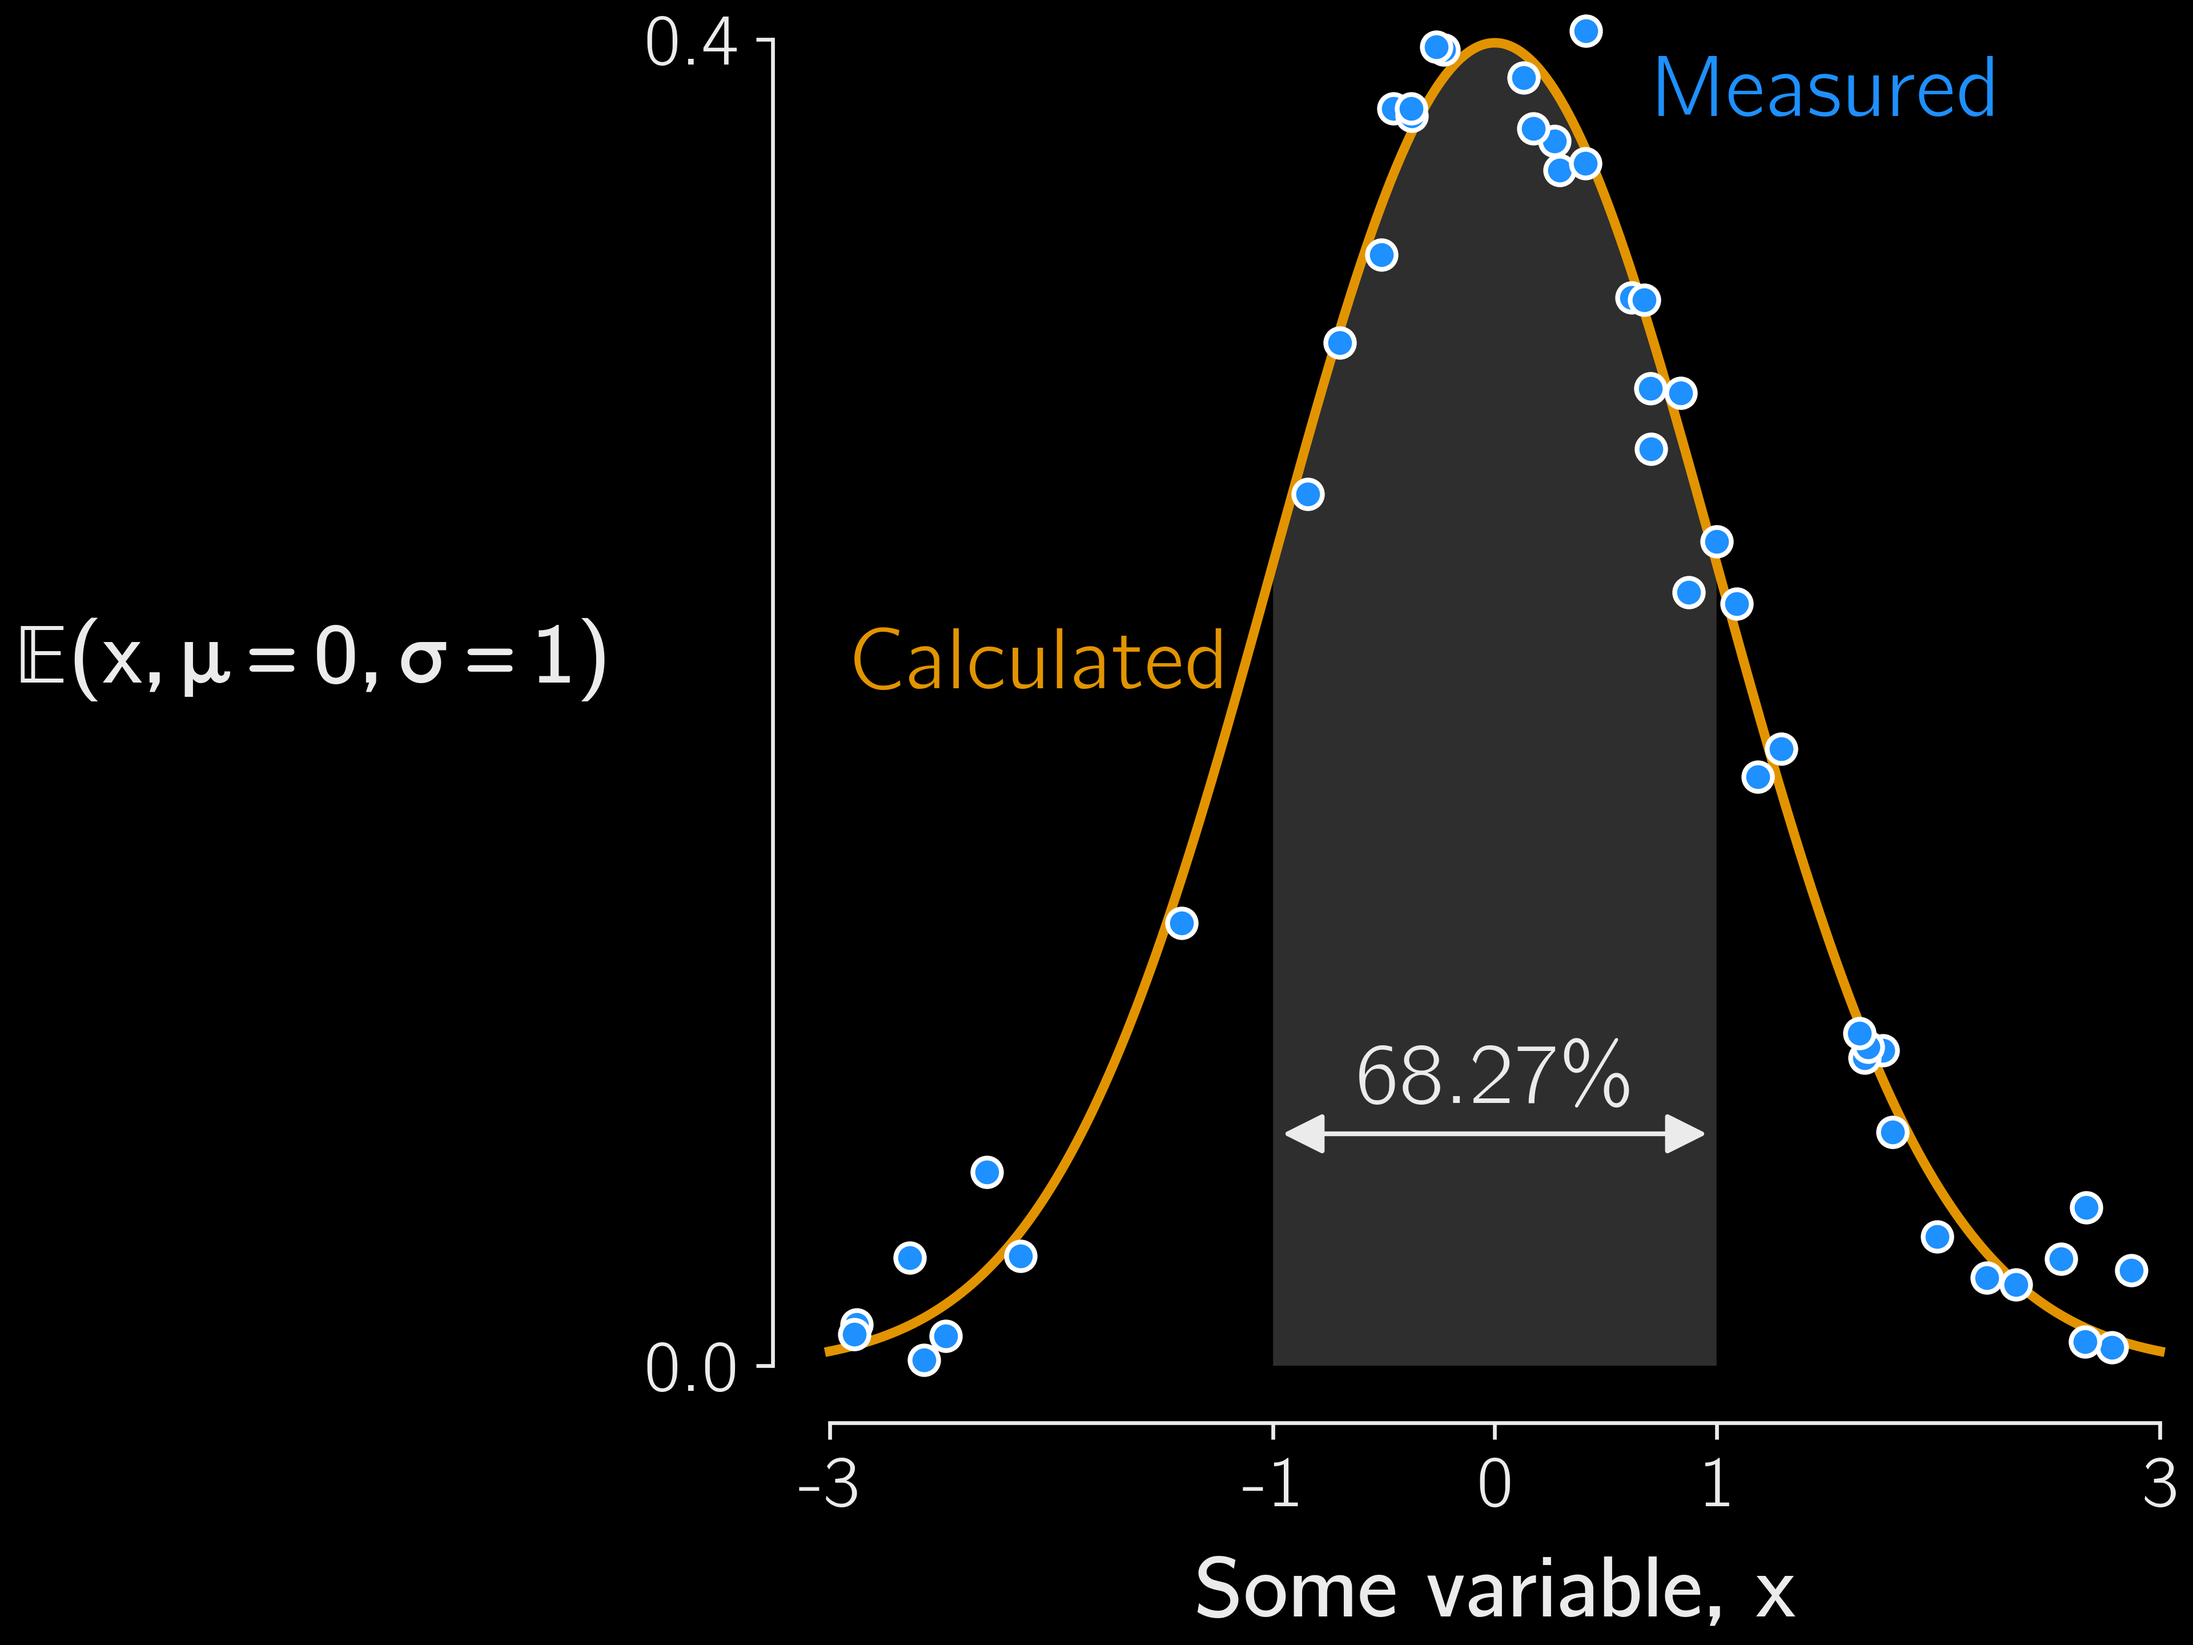
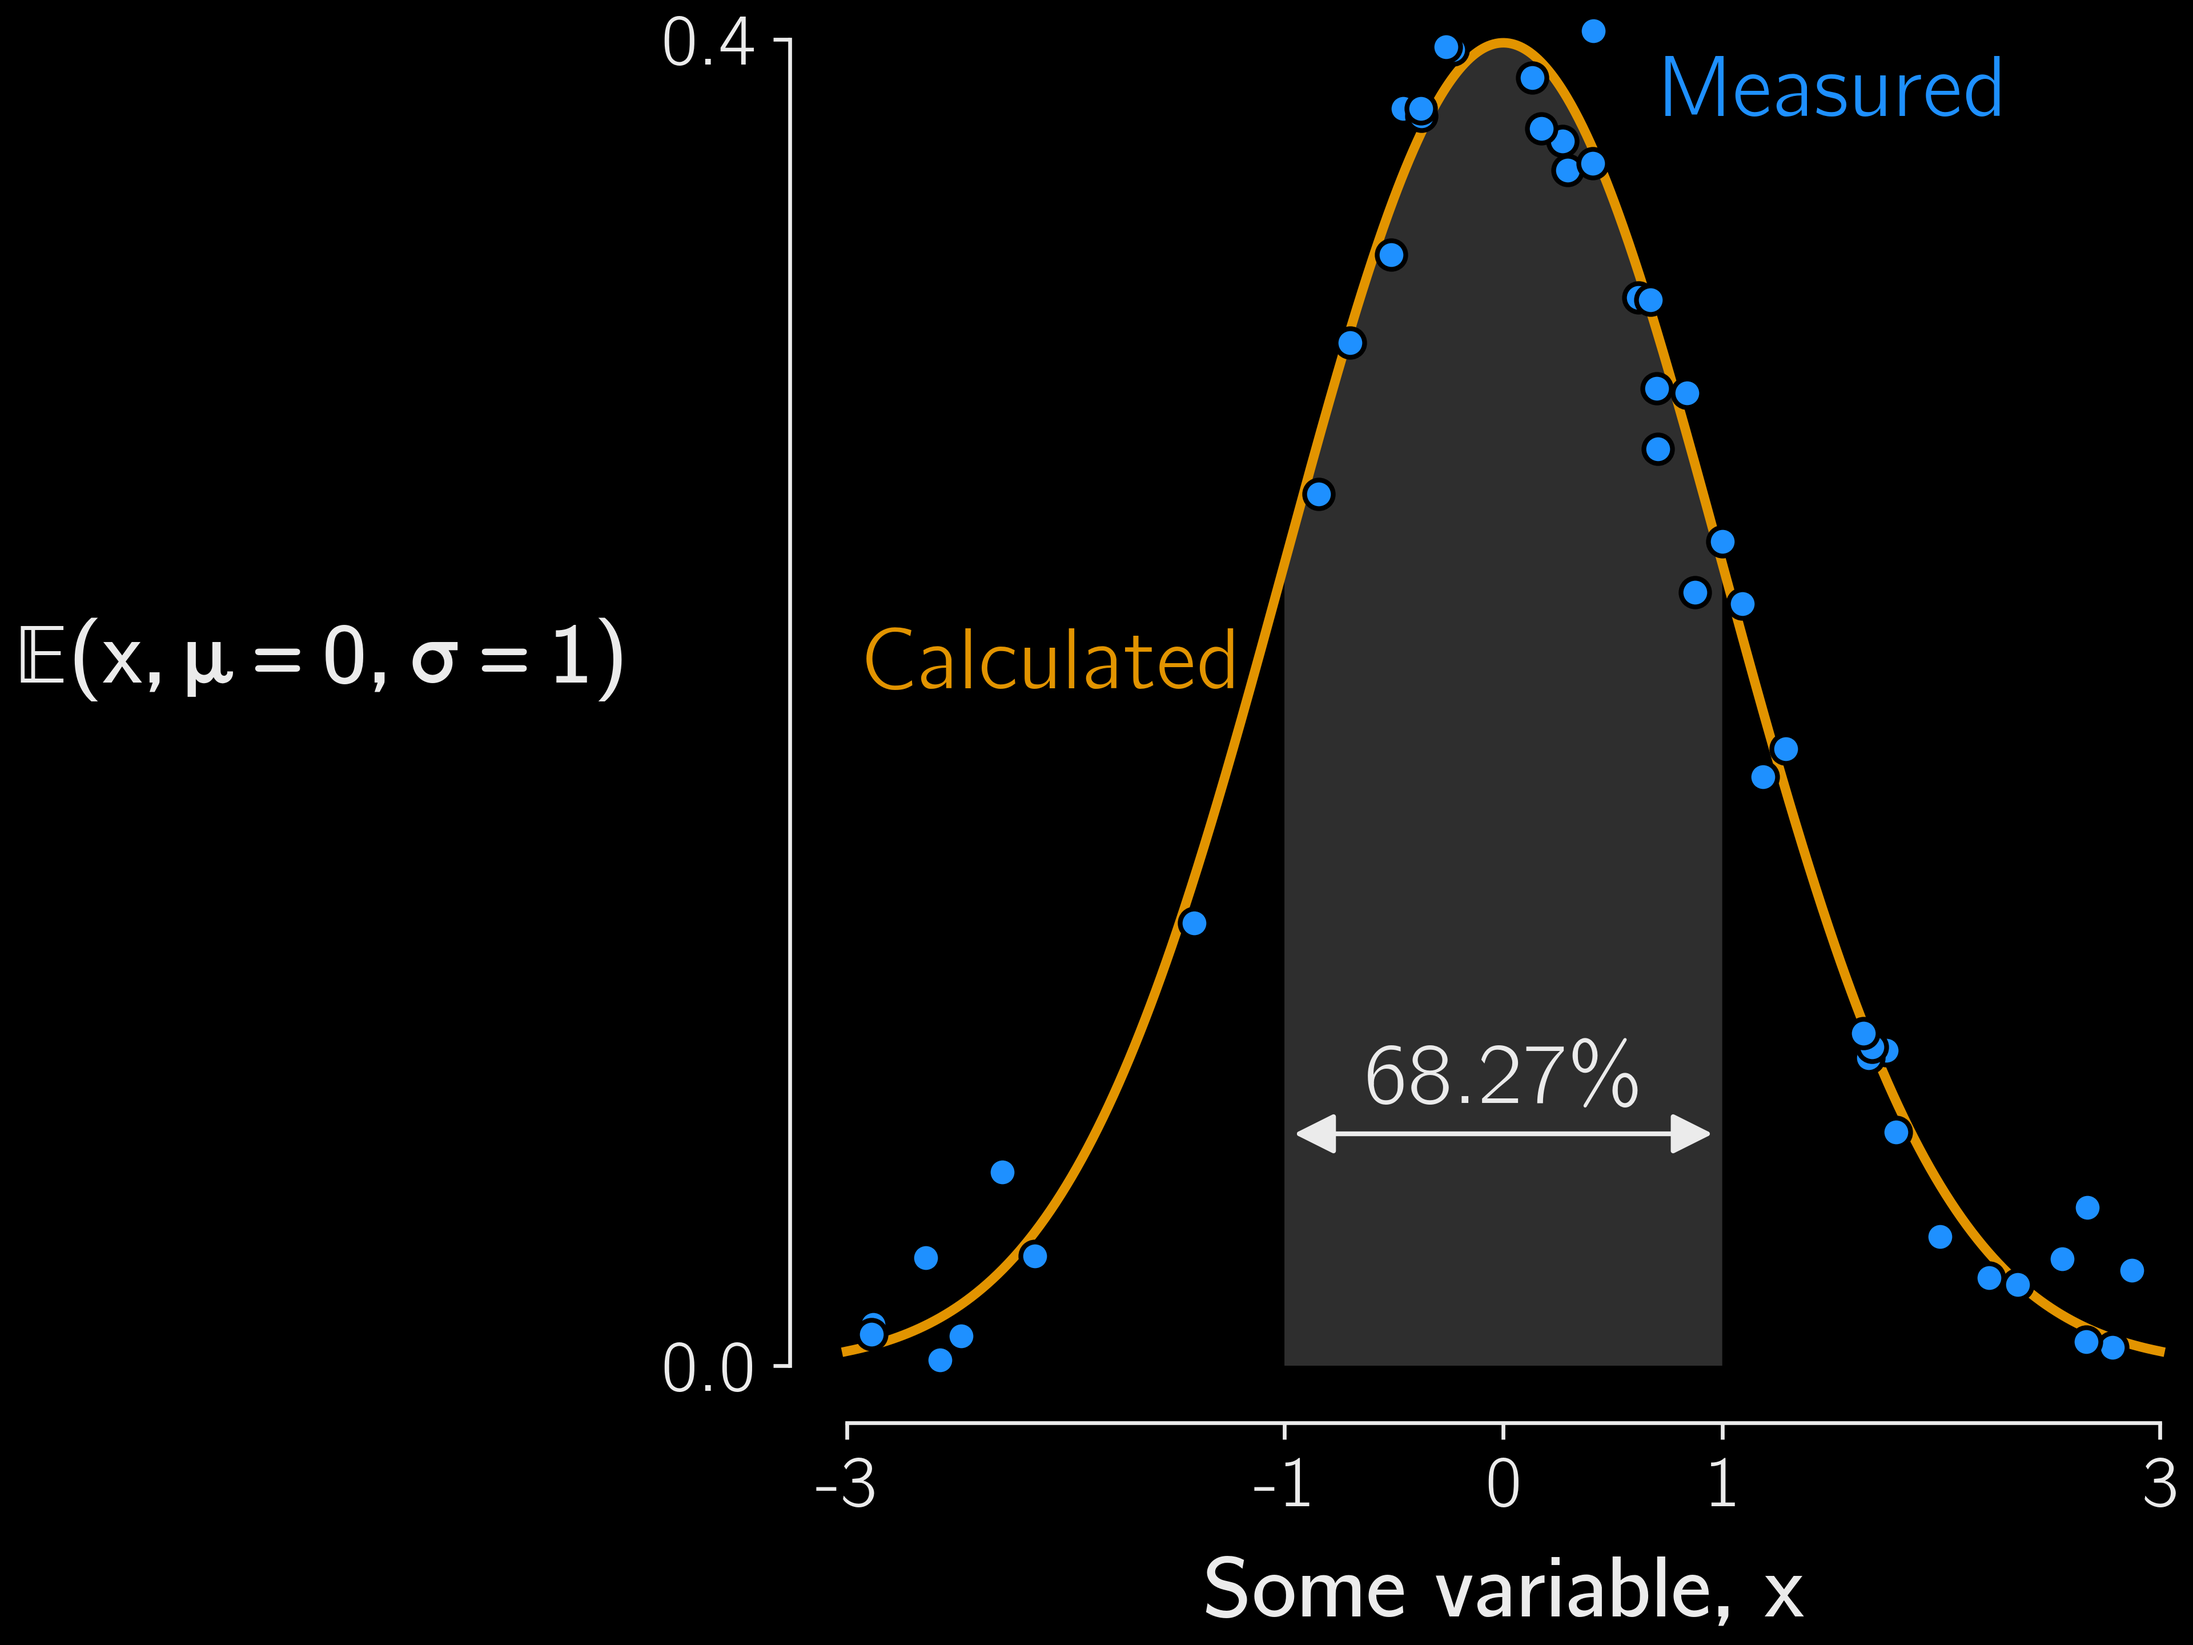
Tweak dark doumont style, update example png's

diff --git a/examples/plot_colored_line.py b/examples/plot_colored_line.py
@@ -29,9 +29,9 @@ c = np.cos(x)
 
 fig, ax = plt.subplots()
 niceplots.plot_colored_line(
-    x, y, c, cmap="coolwarm", fig=fig, ax=ax, addColorBar=True, cRange=None, cBarLabel="$dy/dx$"
+    x, y, c, cmap="coolwarm", fig=fig, ax=ax, addColorBar=True, cRange=None, cBarLabel="$dy/dx$", clip_on=False
 )
-niceplots.plot_colored_line(x, c, -y, cmap="coolwarm", fig=fig, ax=ax)
+niceplots.plot_colored_line(x, c, -y, cmap="coolwarm", fig=fig, ax=ax, clip_on=False)
 niceplots.adjust_spines(ax)
 ax.set_xlabel("$x$")
 ax.set_ylabel("$y$", rotation="horizontal", ha="right")
@@ -43,7 +43,9 @@ fig.savefig("coloredLine.pdf")
 
 # Use a custom norm to specify the colormap range
 divnorm = TwoSlopeNorm(vmin=-1.0, vcenter=0.8, vmax=1.0)
-fig, ax = niceplots.plot_colored_line(x, y, c, cmap="coolwarm", norm=divnorm, addColorBar=False, cBarLabel="$dy/dx$")
+fig, ax = niceplots.plot_colored_line(
+    x, y, c, cmap="coolwarm", norm=divnorm, addColorBar=False, cBarLabel="$dy/dx$", clip_on=False
+)
 niceplots.adjust_spines(ax)
 ax.set_xlabel("$x$")
 ax.set_ylabel("$y$", rotation="horizontal", ha="right")
@@ -52,4 +54,3 @@ ax.set_xticklabels([0, r"$\frac{\pi}{2}$", r"$\pi$", r"$\frac{3\pi}{2}$", r"$2\p
 ax.set_xlim(0, 2 * np.pi)
 fig.savefig("coloredLineCustomNorm.png", dpi=400)
 fig.savefig("coloredLineCustomNorm.pdf")
-# plt.show()

diff --git a/examples/plot_optProb.py b/examples/plot_optProb.py
@@ -82,4 +82,3 @@ for conStyle in ["shaded", "hashed"]:
     # Save figures
     fig.savefig(f"optProb-{conStyle}.png", dpi=400)
     fig.savefig(f"optProb-{conStyle}.pdf")
-plt.show()
